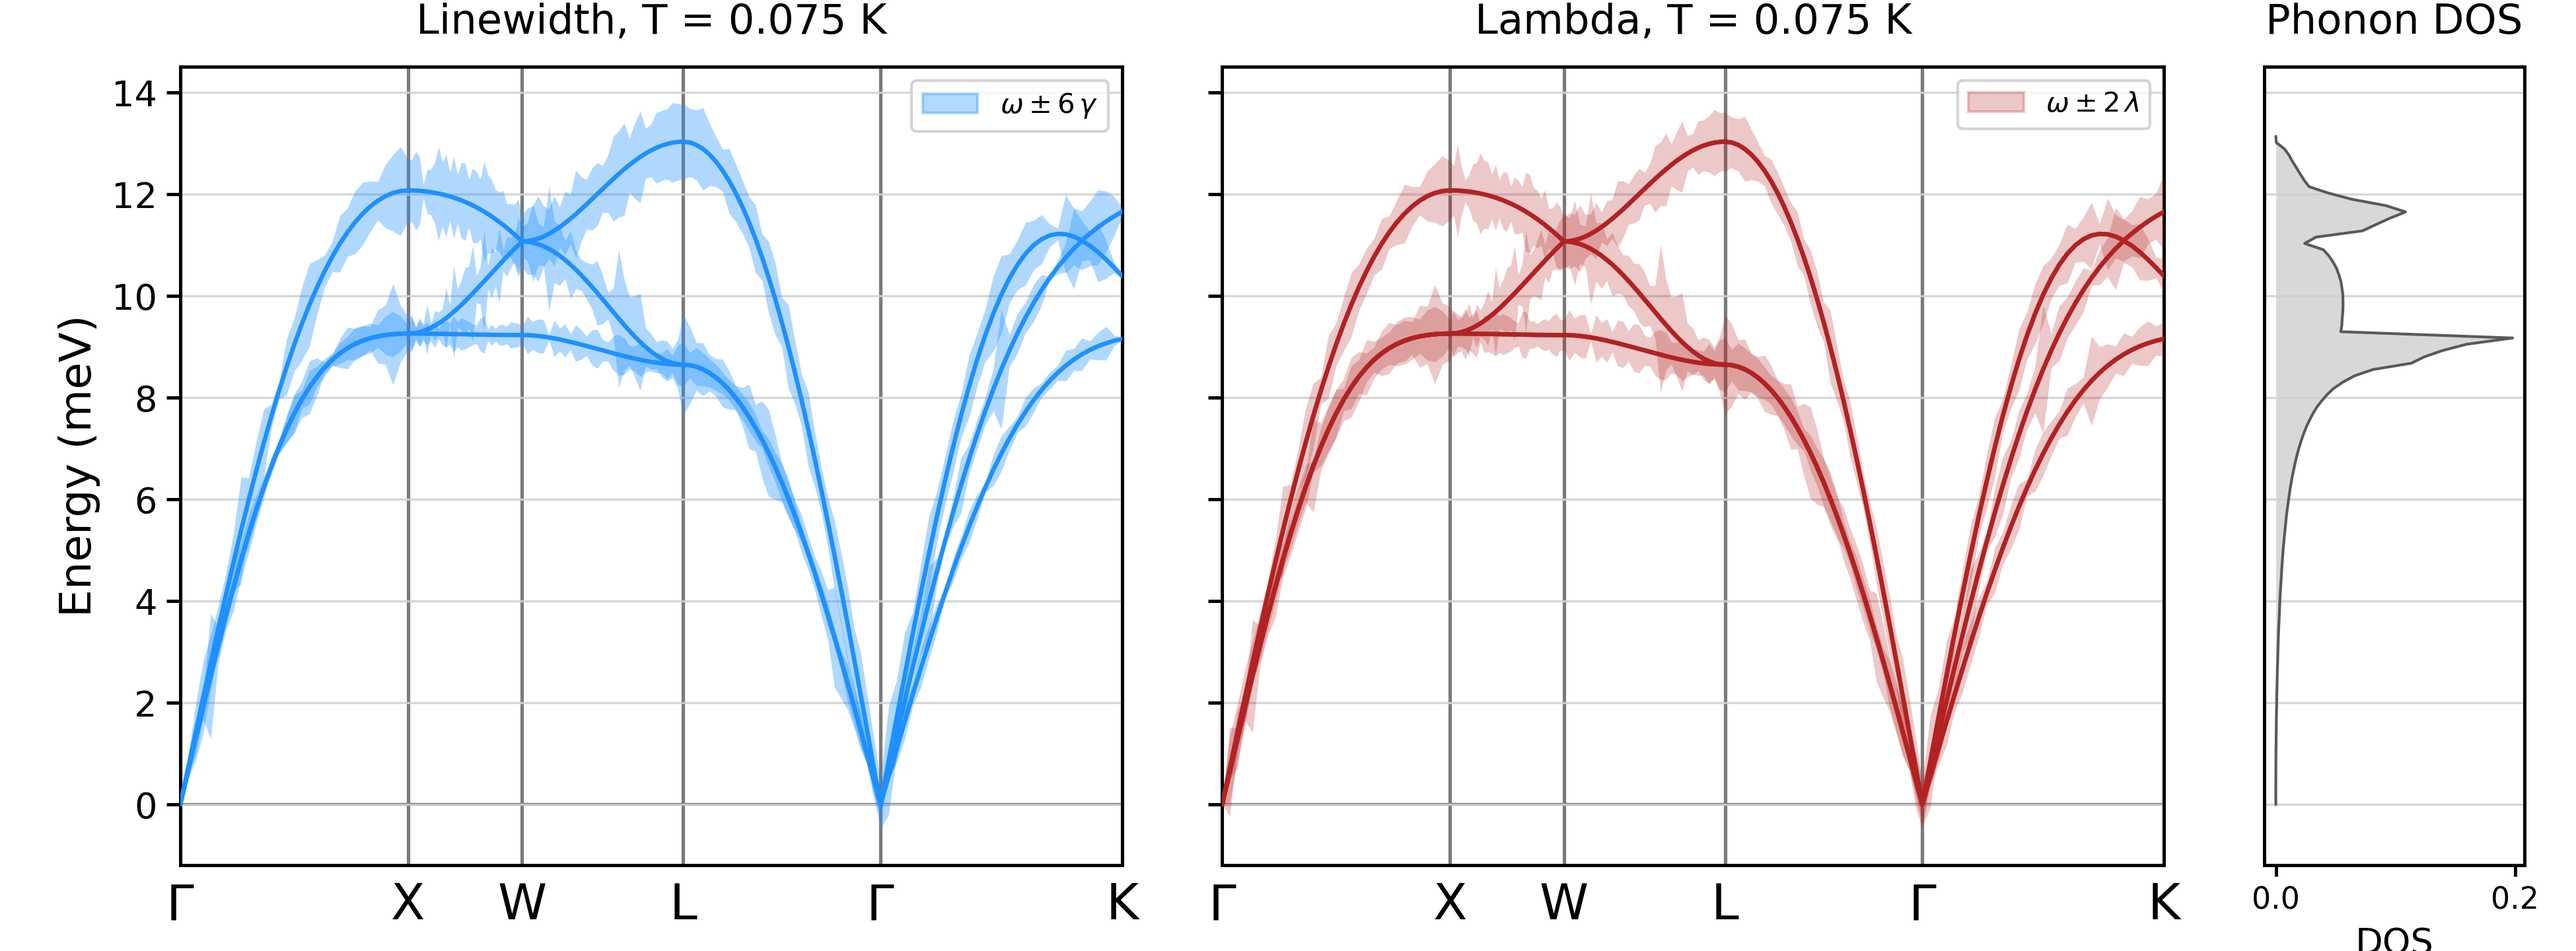
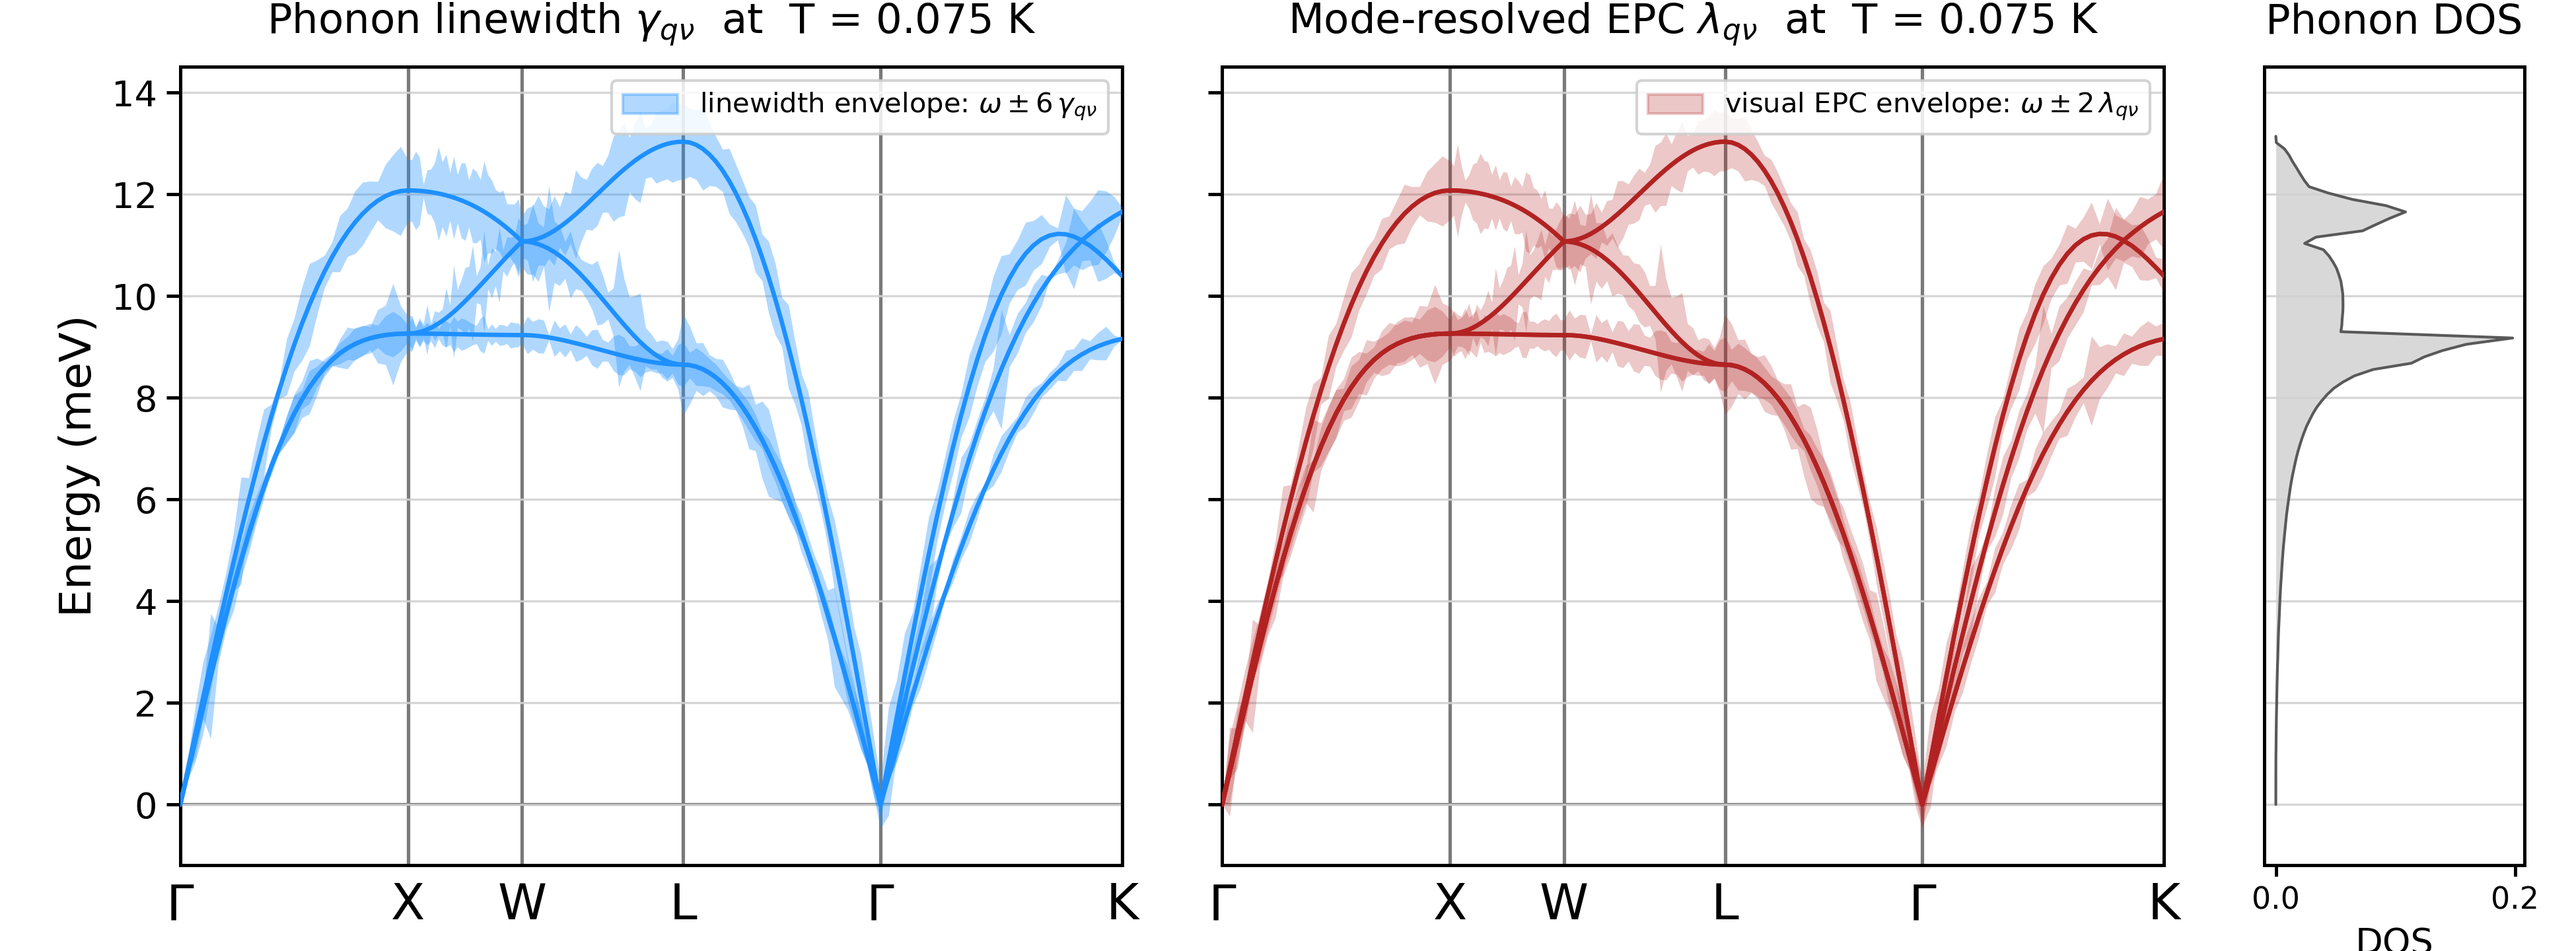
Add files via upload

diff --git a/04Pb/calc/4epw/99plot_phonon_linewidth_lambda.py b/04Pb/calc/4epw/99plot_phonon_linewidth_lambda.py
@@ -801,7 +801,7 @@ def draw_bands(ax, q_path: np.ndarray, y_disp: np.ndarray,
                             alpha=args.band_alpha, linewidth=0, zorder=4)
             ax.plot(q_path, w, "-", **_line_kw(args.band_lw, color=col, zorder=5))
         handles.append(Patch(facecolor=col, alpha=args.band_alpha, edgecolor=col,
-                             label=rf"$\omega \pm {A:g}\,\gamma$"))
+                             label=rf"linewidth envelope: $\omega \pm {A:g}\,\gamma_{{q\nu}}$"))
     return handles
 
 
@@ -840,7 +840,7 @@ def draw_lambda_bands(ax, q_path: np.ndarray, y_disp: np.ndarray,
     if used:
         handles.append(Patch(facecolor=args.lambda_color, alpha=args.lambda_alpha,
                              edgecolor=args.lambda_color,
-                             label=rf"$\omega \pm {args.lambda_scale:g}\,\lambda$"))
+                             label=rf"visual EPC envelope: $\omega \pm {args.lambda_scale:g}\,\lambda_{{q\nu}}$"))
     return handles
 
 
@@ -1114,9 +1114,9 @@ def make_grouped_plot(q_path: np.ndarray, freqs_cm1: np.ndarray,
                 print(f"[INFO] linewidth bubbles drawn = {x.size}, gamma_ref = {g_ref:.6g}")
                 bubble_legend(ax_lw, g_ref, args, fs)
 
-        lw_title = f"Linewidth, T = {T_show:.3f} K"
+        lw_title = rf"Phonon linewidth $\gamma_{{q\nu}}$  at  T = {T_show:.3f} K"
         if args.title:
-            lw_title = f"{args.title} - linewidth, T = {T_show:.3f} K"
+            lw_title = rf"{args.title} — phonon linewidth $\gamma_{{q\nu}}$, T = {T_show:.3f} K"
         apply_common_axis_style(ax_lw, q_path, y_disp, labels, tick_idx,
                                 ylabel, lw_title, args, fs,
                                 show_xticklabels=show_xticklabels,
@@ -1132,9 +1132,9 @@ def make_grouped_plot(q_path: np.ndarray, freqs_cm1: np.ndarray,
             ax_lam.legend(handles=lambda_handles, loc="upper right", fontsize=fs["legend"],
                           framealpha=0.85).set_zorder(10)
 
-        lam_title = f"Lambda, T = {T_show:.3f} K"
+        lam_title = rf"Mode-resolved EPC $\lambda_{{q\nu}}$  at  T = {T_show:.3f} K"
         if args.title:
-            lam_title = f"{args.title} - lambda, T = {T_show:.3f} K"
+            lam_title = rf"{args.title} — mode-resolved EPC $\lambda_{{q\nu}}$, T = {T_show:.3f} K"
         apply_common_axis_style(ax_lam, q_path, y_disp, labels, tick_idx,
                                 ylabel, lam_title, args, fs,
                                 show_xticklabels=show_xticklabels,
